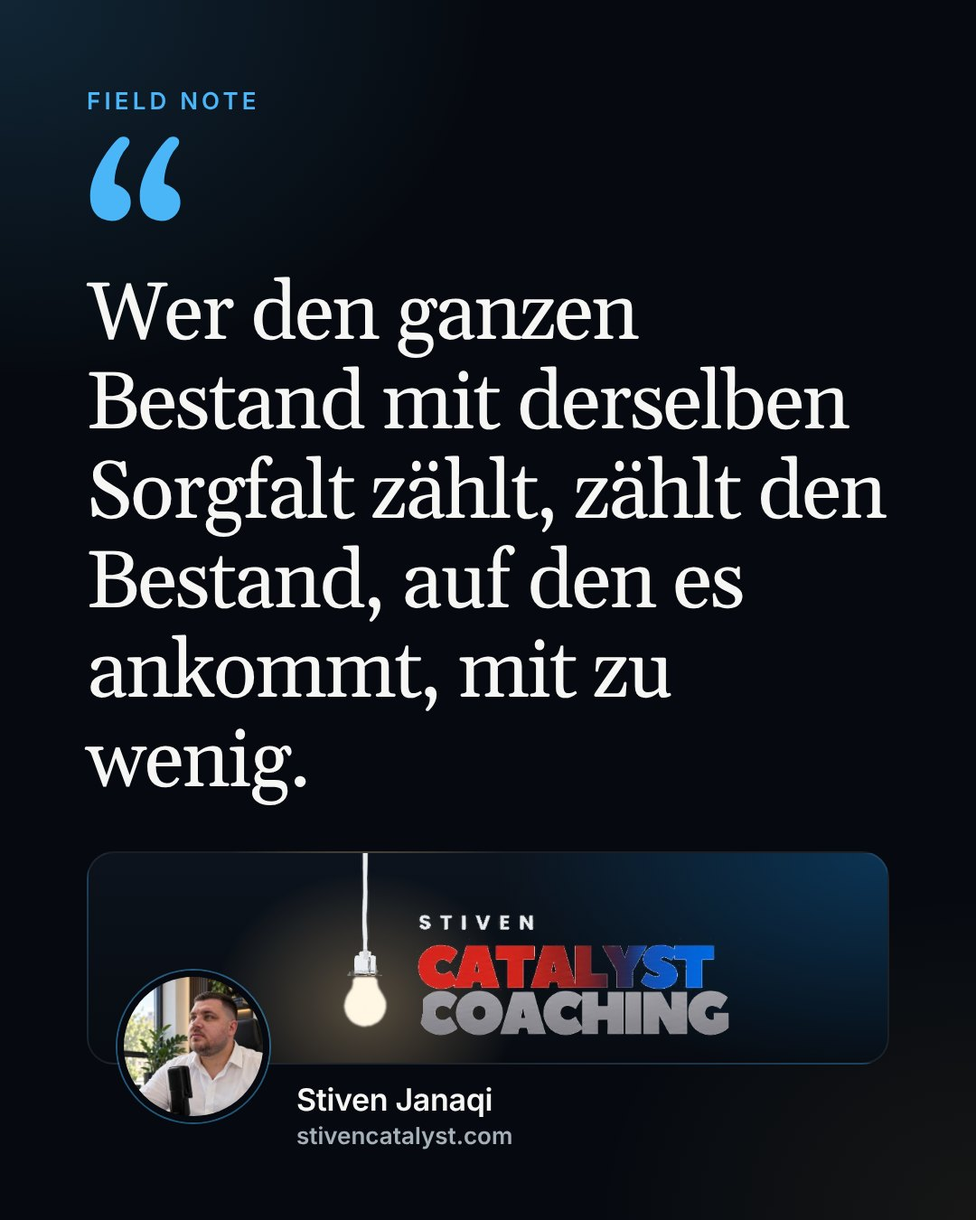
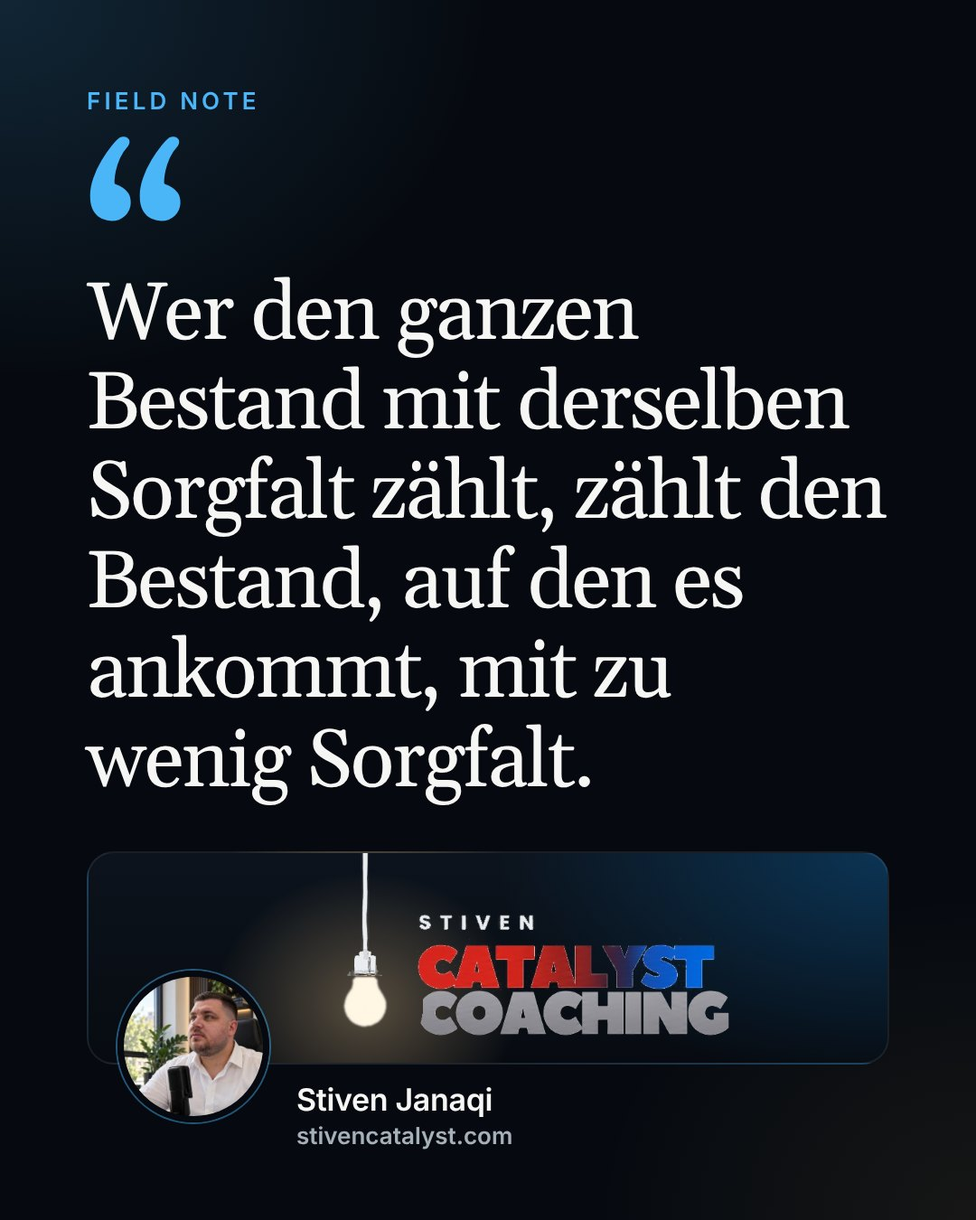
English: calques and slips in the reflection translations, typographic quotes in the reflection bodies, field note 173 restored to "to the solution" (audit P4-10, P4-11)
The card images of field notes 173 (EN) and 226 (DE) are made again with scripts/note-cards.mjs.

Claude-Session: https://claude.ai/code/session_01AtMYkgndrDbZkBjz8B5ny3

Changed region(s): [[0.3056, 0.5911, 0.6111, 0.6533]]

diff --git a/src/content/reflections/2026-10-20-five-questions.md b/src/content/reflections/2026-10-20-five-questions.md
@@ -17,41 +17,41 @@ If we had the courage to strip the false façade from these interviews and bring
 
 ## 1. The wage and the impossible arithmetic
 
-The owner tells you: "The wage is five hundred thousand old lek, but we are giving you the chance to grow together with the company."
+The owner tells you: “The wage is five hundred thousand old lek, but we are giving you the chance to grow together with the company.”
 
-The real question you should ask: "Have you ever worked out what it costs to pay for electricity, water, food and medicine in this country on five hundred thousand lek? How can I grow with the company when my mind is on how I will get to the end of the month without falling into debt?"
+The real question you should ask: “Have you ever worked out what it costs to pay for electricity, water, food and medicine in this country on five hundred thousand lek? How can I grow with the company when my mind is on how I will get to the end of the month without falling into debt?”
 
 In Albania, the figure of five hundred thousand lek has become a kind of economic fiction. It is the sum set just high enough to say you are not unemployed, but not enough to live with dignity. And when you ask for an explanation, the old words come back: that this is what the market pays, that there is no money, that the business is struggling. Meanwhile, the luxury cars at the warehouse door are changed every two years.
 
 ## 2. Six days a week
 
-The owner tells you: "We need total commitment; the hours are Monday to Saturday."
+The owner tells you: “We need total commitment; the hours are Monday to Saturday.”
 
-The real question you should ask: "Do you understand that you are not just buying my working hours, but my whole life? Where will I find time to see my family, to develop myself or simply to breathe, when my only day off is used just to wipe away the week's exhaustion?"
+The real question you should ask: “Do you understand that you are not just buying my working hours, but my whole life? Where will I find time to see my family, to develop myself or simply to breathe, when my only day off is used just to wipe away the week's exhaustion?”
 
 Working six days a week for five hundred thousand lek means giving up every right to a life outside the walls of work. It is a rhythm that breaks you physically and morally, made up only because the manager does not know how to organise the process and looks for the solution in the extra sweat of ordinary people, not in technology or efficiency.
 
 ## 3. Fourteen days of freedom
 
-The owner tells you: "You get fourteen days of leave a year, as the law says."
+The owner tells you: “You get fourteen days of leave a year, as the law says.”
 
-The real question you should ask: "Why do you apply the law only when it comes to counting my few days of freedom, while for overtime, safety at work or respect for dignity, the law is forgotten?"
+The real question you should ask: “Why do you apply the law only when it comes to counting my few days of freedom, while for overtime, safety at work or respect for dignity, the law is forgotten?”
 
 Fourteen days of leave a year are two weeks in which a person has to recover from three hundred and fifty days of stress, pressure and fatigue. And often even those fourteen days are granted on conditions, fought over, with phone calls that never stop and the guilt of leaving the work behind.
 
 ## 4. One-sided flexibility
 
-The owner tells you: "You need to be ready to stay a little longer when it gets busy."
+The owner tells you: “You need to be ready to stay a little longer when it gets busy.”
 
-The real question you should ask: "Will this 'a little longer' be paid, or is it considered part of the five hundred thousand lek with which you think you have bought all of my time?"
+The real question you should ask: “Will this ‘a little longer’ be paid, or is it considered part of the five hundred thousand lek with which you think you have bought all of my time?”
 
-In our corporate mindset, overtime has become an unwritten moral duty. When you leave on time, you are "lazy". When you ask to be paid for the hours worked after closing, you are "only in it for yourself". This is the illusion of control through guilt, in which the owner wants Western commitment on feudal working terms.
+In our corporate mindset, overtime has become an unwritten moral duty. When you leave on time, you are “lazy”. When you ask to be paid for the hours worked after closing, you are “only in it for yourself”. This is the illusion of control through guilt, in which the owner wants Western commitment on feudal working terms.
 
 ## 5. The empty future
 
-The owner tells you: "There are excellent opportunities here for those who want to work."
+The owner tells you: “There are excellent opportunities here for those who want to work.”
 
-The real question you should ask: "What exactly is the future of a person who works six days a week for this wage? Will I be able to buy a home, raise a child, or will I just be one more name on your staff turnover list?"
+The real question you should ask: “What exactly is the future of a person who works six days a week for this wage? Will I be able to buy a home, raise a child, or will I just be one more name in your staff turnover figures?”
 
 This is the question that frightens the most. Because its answer is clear to everyone. With five hundred thousand lek and a rhythm that grinds down the soul, the future does not exist. There is only survival from month to month, until the day the body gives out or you realise that life is slipping away for nothing between the shelves and desks of a place that gives you no chance.
 

diff --git a/src/content/reflections/2026-10-26-the-art-of-saying-no.md b/src/content/reflections/2026-10-26-the-art-of-saying-no.md
@@ -7,9 +7,9 @@ deck: 'Freedom is not a gift your employer grants you, nor a nicely worded artic
 description: 'A reflection on obedience as a false virtue, on every forced "yes" that takes a piece of your sovereignty and why a calm "no" changes the room.'
 ---
 
-In our everyday culture, obedience has long been raised to the rank of a supreme virtue. From childhood, at school, and later, mercilessly, in the workplace, people are fed the idea that a good employee is one who does not upset anyone, who does not start arguments, who always says "yes" and who measures the worth of his character by his ability to bear in silence every weight that is loaded onto his back.
+In our everyday culture, obedience has long been raised to the rank of a supreme virtue. From childhood, at school, and later, mercilessly, in the workplace, people are fed the idea that a good employee is one who does not upset anyone, who does not start arguments, who always says “yes” and who measures the worth of his character by his ability to bear in silence every weight that is loaded onto his back.
 
-And so, over the years, the word "no" has turned into a kind of frightening taboo. Managers experience it as an unjustifiable rebellion, while the employee experiences it as a fatal risk that could cost him his livelihood, his job or that faint appraisal he barely earned after months of sacrifice.
+And so, over the years, the word “no” has turned into a kind of frightening taboo. Managers experience it as an unjustifiable rebellion, while the employee experiences it as a fatal risk that could cost him his livelihood, his job or that faint appraisal he barely earned after months of sacrifice.
 
 But let us look at this reality with calm eyes and a cool head.
 
@@ -21,15 +21,15 @@ It always starts with small things. A phone call at ten in the evening about a t
 
 In that brief second, a fierce battle takes place inside you. Your conscience tells you that this is not right, that it violates your dignity and the truth of the work. But fear, that bad adviser of survival, whispers hastily: *Do it this time too. Don't be difficult. Say yes and be done with it.*
 
-And you say "yes". You say it under your breath, with a forced smile and a hidden feeling of bitterness in your throat.
+And you say “yes”. You say it under your breath, with a forced smile and a hidden feeling of bitterness in your throat.
 
-But every forced "yes" is not just a compromise with your hours or with the physical fatigue of that day. It is a slow retreat from your sovereignty as a human being. You give up a centimetre today, a metre tomorrow, until the day comes when you find yourself completely occupied by the demands of a system that will never be satisfied.
+But every forced “yes” is not just a compromise with your hours or with the physical fatigue of that day. It is a slow retreat from your sovereignty as a human being. You give up a centimetre today, a metre tomorrow, until the day comes when you find yourself completely occupied by the demands of a system that will never be satisfied.
 
 Because such is the nature of unchecked power: it never stops where morality asks it to; it stops only where it runs into a clear and unshakeable wall.
 
 Learning the art of saying no does not mean becoming arrogant, stubborn or undisciplined. That is the greatest misunderstanding.
 
-Saying "no" with dignity does not require you to shout in the middle of the room, to slam doors or to use the language of anger. Noise and shouting are often signs of insecurity and weakness.
+Saying “no” with dignity does not require you to shout in the middle of the room, to slam doors or to use the language of anger. Noise and shouting are often signs of insecurity and weakness.
 
 The most powerful refusal in human history and in everyday professional life is the one spoken with complete calm, with good manners and with surgical precision. It is the ability to look the other person in the eye and say: *I cannot break this process because it harms the quality of the whole team. I cannot take on these hours because my time for today is over. I cannot accept this treatment because my work is based on mutual respect.*
 

diff --git a/src/content/reflections/2026-10-26-divide-and-rule-in-the-corridors.md b/src/content/reflections/2026-10-26-divide-and-rule-in-the-corridors.md
@@ -21,7 +21,7 @@ Let me say this with all the clarity the truth deserves. **When an insecure mana
 
 Let us watch how this little civil war in the corridors is orchestrated.
 
-It always begins in the boss's closed office, in secret conversations behind half-open doors. The owner or the director calls in one of the employees, offers him a coffee, smiles at him with false confidence and whispers in a low voice: "Look, I count on you. You're the only one who really works here. Watch out for that other one, he said some unkind things about you yesterday."
+It always begins in the boss's closed office, in secret conversations behind half-open doors. The owner or the director calls in one of the employees, offers him a coffee, smiles at him with false confidence and whispers in a low voice: “Look, I count on you. You're the only one who really works here. Watch out for that other one, he said some unkind things about you yesterday.”
 
 Then, just an hour later, the same scene is repeated with the other colleague, with only the names changed.
 
@@ -31,7 +31,7 @@ First, he destroys any chance of solidarity. He knows very well that if the staf
 
 A united, clear-sighted team demands accountability, demands standards and demands dignity. And that is the worst nightmare of incompetent management.
 
-Second, through this division, the manager casts himself as indispensable. He becomes the only centre of gravity, the only channel of communication, the supreme father keeping the balance between quarrelling children. Employees no longer go to a colleague to clear up an operational problem; they go to the boss to inform on each other and to seek protection. And the boss enjoys watching grown adults lower their dignity just to win a crumb of favour in his eyes.
+Second, through this division, the manager casts himself as indispensable. He becomes the only centre of gravity, the only channel of communication, the supreme father keeping the balance between quarrelling children. Employees no longer go to a colleague to clear up an operational problem; they go to the boss to inform on each other and to seek protection. And the boss enjoys watching grown adults demean themselves just to win a crumb of favour in his eyes.
 
 The price a business pays for this sick game is enormous.
 
@@ -39,7 +39,7 @@ The energy that should go into improving customer service, eliminating mistakes 
 
 True leadership does exactly the opposite.
 
-A leader with integrity and self-confidence knows that his success is measured by the level of trust that exists between people when he is not in the room at all. He cannot stand intrigue. As soon as someone walks into his office to speak badly about a colleague, a true leader stops him at once and says: "Call him in here, sit down across from him and tell him to his face what you have to say."
+A leader with integrity and self-confidence knows that his success is measured by the level of trust that exists between people when he is not in the room at all. He cannot stand intrigue. As soon as someone walks into his office to speak badly about a colleague, a true leader stops him at once and says: “Call him in here, sit down across from him and tell him to his face what you have to say.”
 
 He sets clear procedures for communication, builds transparent handover protocols and creates an environment where each person's result depends on the success of everyone together.
 
@@ -47,4 +47,4 @@ If you are working today in a place where the air is heavy with jealousy and col
 
 Open your eyes and look at who is profiting from this senseless war. Look at who is hiding his own weakness behind the noise of your clashes.
 
-Because the truth always remains simple: small people divide so they can rule over ruins, but great leaders unite, because they know well that no real castle can stay standing if the stones of its foundation are wearing each other away.
+Because the truth always remains simple: small minds divide so they can rule over ruins, but great leaders unite, because they know well that no real castle can stay standing if the stones of its foundation are wearing each other away.

diff --git a/src/content/reflections/2026-10-26-the-blame-culture.md b/src/content/reflections/2026-10-26-the-blame-culture.md
@@ -9,13 +9,13 @@ description: 'A reflection on hunting for a culprit after every mistake, on the 
 
 When something goes wrong in an operation, when a load is late in the warehouse, when an invoice gets stuck or a piece of equipment is damaged, the first reaction reveals the true level of civilisation of that organisation.
 
-In most of our businesses, in that critical second, the essential question is never asked: "Why did the process fail?". Instead, another question is asked at once, loaded with resentment and a primitive thirst for punishment: "Who did it? Whose fault is it?".
+In most of our businesses, in that critical second, the essential question is never asked: “Why did the process fail?”. Instead, another question is asked at once, loaded with resentment and a primitive thirst for punishment: “Who did it? Whose fault is it?”.
 
 Within a few minutes the office turns into an improvised courtroom. The manager insists on a name, a concrete face on which he can unload all his anger, his irritation and his operational insecurity. A scapegoat must be found. Someone has to sit in the middle of the room, take the insults, have money docked from their pay and be declared absolutely guilty in front of everyone. And as soon as this head is found and the punishment handed down with a flourish, everyone breathes a sigh of relief, the manager goes calmly back to his chair and the matter is declared solved.
 
 Let me say this with all the clarity the truth demands. **Hunting for the culprit is not justice; it is simply a theatre of revenge that leaves the problem completely untouched. When personal punishment replaces root-cause analysis, you have fixed nothing; you have simply guaranteed that the same failure will happen again tomorrow.**
 
-Look at how the industries work that carry human lives on their shoulders and where mistakes are not forgiven.
+Look at the industries that carry human lives on their shoulders, where mistakes are not forgiven, and see how they work.
 
 In modern aviation or in surgery, when an incident happens, no one wastes precious seconds insulting or humiliating the technician. The first question the investigating board asks is a completely different one: What in the design of the instruments led the person into confusion? Why did the checklist fail to catch the defect before departure? How can we change the standard operating procedure so that no other professional falls into the same trap?
 
@@ -25,7 +25,7 @@ But what happens in an Albanian company that feeds on the fear of personal punis
 
 There, the operational truth is destroyed completely. Employees are not naive. The second they understand that admitting a small mistake will cost them their livelihood or their dignity in front of their colleagues, they give up on transparency and learn the dark art of survival: hiding.
 
-The mistake is not corrected; it is pushed deep under the carpet. The flaw is masked with quick patches, the figures in the system are quietly altered and the defect is left like a time bomb, with everyone praying it goes off on someone else's shift. And so the company begins to rot from within without anyone noticing, because the culture of terror has killed the one tool that saves a business: the courage to say "we have a problem here".
+The mistake is not corrected; it is pushed deep under the carpet. The flaw is masked with quick patches, the figures in the system are quietly altered and the defect is left like a time bomb, with everyone praying it goes off on someone else's shift. And so the company begins to rot from within without anyone noticing, because the culture of terror has killed the one tool that saves a business: the courage to say “we have a problem here”.
 
 True leadership draws a sharp line between two worlds. It knows how to separate, cleanly, a process error from a deliberate breach of ethics.
 

diff --git a/src/content/reflections/2026-10-26-the-theatre-of-haste.md b/src/content/reflections/2026-10-26-the-theatre-of-haste.md
@@ -9,7 +9,7 @@ description: 'A reflection on the culture where everything is urgent, on calm th
 
 There is a common and very costly illusion in today's world of work, where the value of a day is no longer measured by what is actually built, but by the amount of noise created around the process.
 
-Watch closely how this theatre works in many of our offices, warehouses and operational settings. Doors fly open, people walk with quickened steps as if putting out an imaginary fire, phones shake without pause on the desks, and in every corner the same word is heard, repeated like a prayer: "urgent". Everything is declared urgent. Every request should have been closed yesterday. Every message arrives with red alarm signs and every conversation begins out of breath, as if the company were on the edge of the abyss every second.
+Watch closely how this theatre works in many of our offices, warehouses and operational settings. Doors fly open, people walk with quickened steps as if putting out an imaginary fire, phones shake without pause on the desks, and in every corner the same word is heard, repeated like a prayer: “urgent”. Everything is declared urgent. Every request should have been closed yesterday. Every message arrives with red alarm signs and every conversation begins out of breath, as if the company were on the edge of the abyss every second.
 
 At first sight, to a superficial observer, this looks like a business with a high tempo, full of committed people giving everything they have.
 
@@ -27,7 +27,7 @@ And here the greatest injustice of this culture shows itself: the way it treats 
 
 Picture a manager or an employee who believes in order. He starts the shift calmly, opens his notes, works out the priorities and refuses to take part in the general hysteria. He knows that before you start running, you need to know which way you are running.
 
-In the eyes of a shallow manager, this person is at once viewed with suspicion. "Why is he so calm? Why isn't he worried like the others? His mind isn't on the job."
+In the eyes of a shallow manager, this person is at once viewed with suspicion. “Why is he so calm? Why isn't he worried like the others? His mind isn't on the job.”
 
 In the mindset of those who mistake noise for results, calm is felt as an insult, because it exposes the futility of their panic. They do not understand that a professional's calm does not come from indifference, but from the strength of preparation.
 
@@ -35,7 +35,7 @@ A skilled surgeon does not walk into the operating theatre shouting nervously; h
 
 The culture of blind hurry is not only ridiculous; it is deeply destructive to the health of people and of the organisation.
 
-It produces dangerous shortcuts. To close the next "urgency", people skip the quality check, break the safety rules and leave essential details half done. And the result is well known: today's shortcut becomes tomorrow's big crisis. People burn out from chronic stress, mistakes multiply and the company enters a vicious circle in which hurry itself produces the need for more hurry.
+It produces dangerous shortcuts. To close the next “urgency”, people skip the quality check, break the safety rules and leave essential details half done. And the result is well known: today's shortcut becomes tomorrow's big crisis. People burn out from chronic stress, mistakes multiply and the company enters a vicious circle in which hurry itself produces the need for more hurry.
 
 True leadership stands out precisely by its ability to break this illusion.
 

diff --git a/src/content/reflections/2026-10-22-the-tyranny-of-the-wall-clock.md b/src/content/reflections/2026-10-22-the-tyranny-of-the-wall-clock.md
@@ -9,7 +9,7 @@ description: 'A reflection on the culture of empty presence, overtime as a loyal
 
 The clock shows exactly the last minute of the shift. You close the computer, tidy the desk, take your coat and get your keys ready to leave. In any society that understands the value of system and organisation, this is simply a day fulfilled: the work is done, the hours are over, a person goes back to their life.
 
-But in many Albanian offices, shops and warehouses, an unbearable piece of theatre happens precisely in that second. It is enough to get up from your chair on time for cold looks to cross over you. The manager raises their head in surprise, as if witnessing a serious breach of the criminal code. Colleagues used to submission lower their eyes to the keyboard with a kind of silent guilt. And there is almost always the half-ironic remark, tossed into the air like a poisoned dart: "Taking half the day off today?" or "Leaving already, didn't you finish the work?"
+But in many Albanian offices, shops and warehouses, an unbearable piece of theatre happens precisely in that second. It is enough to get up from your chair on time for cold looks to cross over you. The manager raises their head in surprise, as if witnessing a serious breach of the criminal code. Colleagues used to submission lower their eyes to the keyboard with a kind of silent guilt. And there is almost always the half-ironic remark, tossed into the air like a poisoned dart: “Taking half the day off today?” or “Leaving already, didn't you finish the work?”
 
 On the other hand, when you stay two hours longer, when you burn your energy fixing chaos created by others, no one says thank you. No one asks how you will get home. In that case the office's silence treats your staying as something to be taken for granted, a sacred duty you owe the company.
 
@@ -23,7 +23,7 @@ But instead of sitting down in front of the data and asking where the time is le
 
 They turn closing time into a loyalty test. They make you feel guilty for having a family waiting at home, children to pick up from school, friends to meet, or simply for wanting to read a book without the voice of work over your head. In their sick logic, you should stay in the office even when there is no emergency, just to keep their insecurity company, just so they can enjoy having people under their command.
 
-This is the culture of "empty presence". It is a culture that values the person who sits around in the office until nine in the evening browsing the internet more than the one who organises the day with surgical precision and hands in the work without a single mistake at exactly closing time.
+This is the culture of “empty presence”. It is a culture that values the person who sits around in the office until nine in the evening browsing the internet more than the one who organises the day with surgical precision and hands in the work without a single mistake at exactly closing time.
 
 This mindset is the greatest killer of efficiency. When a team gets used to the idea that the end of the day is negotiable, no one has any reason left to work fast and with focus. Why should I hurry to finish a task by two o'clock when I know the boss won't let me leave before seven? In this way the whole team falls into a lethargic rhythm, where the hours drag on for nothing and the day becomes a prison without bars.
 

diff --git a/src/content/reflections/2026-10-25-the-perfect-alibi.md b/src/content/reflections/2026-10-25-the-perfect-alibi.md
@@ -7,7 +7,7 @@ deck: 'In the mindset of a caste of entrepreneurs who never admit a mistake, it 
 description: 'A reflection on the myth of the lazy Albanian, on workers who excel abroad, and why the problems of an organisation always flow from the top down.'
 ---
 
-There is an old refrain, repeated so often in offices, business cafés and television studios that for many managers it has become a kind of sacred dogma: "It's not the firm's fault. It's the worker's fault, he doesn't want to work."
+There is an old refrain, repeated so often in offices, business cafés and television studios that for many managers it has become a kind of sacred dogma: “It's not the firm's fault. It's the worker's fault, he doesn't want to work.”
 
 It is the most comfortable sentence Albanian management has ever invented.
 
@@ -19,7 +19,7 @@ Let us set this myth against one simple fact that no one can deny.
 
 Look at what happens the second these young men and women cross the border. In Germany, in Italy, in England and everywhere around the world, they take on long shifts in logistics, on building sites, in hotels and in hospitals. They wake before dawn, work with iron discipline, carry loads, keep to the hours and earn the respect of foreign employers as some of the most hard-working people there are.
 
-How is it possible that the same person who in Durrës or Tirana is declared "a lazy one who doesn't want to work" becomes a model employee the moment he walks into a warehouse in Munich or London?
+How is it possible that the same person who in Durrës or Tirana is declared “a lazy one who doesn't want to work” becomes a model employee the moment he walks into a warehouse in Munich or London?
 
 Does his blood change on the way? Does his DNA change at the airport?
 
@@ -29,7 +29,7 @@ Abroad, that person faces a contract that is respected, a clear operating proces
 
 When one employee leaves your company, it may be an isolated case. But when dozens of people leave your company every year, when the recruitment doors stay open without end and no one turns their head to come, this is not a crisis in the morals of the young. **It is an open indictment of the way you lead.**
 
-To say that "people don't want to work" when you offer survival conditions is like throwing seed on dry rock and then cursing nature because nothing grows. Work is not born of pressure, nor of complaints on television screens. Committed work is born when you create an environment where a person sees that their effort has meaning and an honest reward.
+To say that “people don't want to work” when you offer survival conditions is like throwing seed on dry rock and then cursing nature because nothing grows. Work is not born of pressure, nor of complaints on television screens. Committed work is born when you create an environment where a person sees that their effort has meaning and an honest reward.
 
 True leadership is measured by the courage to take responsibility. It is very easy to sit in the big chair and take the credit for every success while billing every failure to those at the base. But the history of management teaches us one unshakeable rule: the problems of an organisation always flow from the top down, not from the bottom up.
 

diff --git a/src/content/reflections/2026-10-20-the-keeper-of-the-stamp.md b/src/content/reflections/2026-10-20-the-keeper-of-the-stamp.md
@@ -17,7 +17,7 @@ In a healthy organisation, this department is the conscience of the company. It 
 
 Look at how this mechanism works every day. When an employee has a concern, when the system crushes them, when their overtime is not paid or their manager behaves with arrogance, they know very well that the Human Resources door is the last place to knock. Because in that office there is no confidentiality, there is reporting. There is no solution, there is a warning. Every word said in there risks becoming a note in their personal file.
 
-And what happens on the surface meanwhile? On the surface the corporate comedy is played. Photos with forced smiles are posted on social media, people talk about "the big company family", year-end parties are organised and certificates of appreciation are handed out that are not worth the paper they are printed on. It is a nicely painted façade, while behind it employees are treated as replaceable numbers in an Excel sheet.
+And what happens on the surface meanwhile? On the surface the corporate comedy is played. Photos with forced smiles are posted on social media, people talk about “the big company family”, year-end parties are organised and certificates of appreciation are handed out that are not worth the paper they are printed on. It is a nicely painted façade, while behind it employees are treated as replaceable numbers in an Excel sheet.
 
 I have seen excellent professionals who gave years of their lives to a company and were in the end sent off with a cold piece of paper, without a single question about why they were leaving. In Albania there are no exit interviews, because to ask why a capable person is leaving, you need the courage to hear the truth. And the truth is that people do not leave hard work. **People leave places where they feel invisible, unprotected and deceived.**
 
@@ -25,6 +25,6 @@ When Human Resources are reduced to the role of a gendarme who checks the clock-
 
 This is not how the future is built. This is the model of the old workshop, dressed up in English terms.
 
-Real change in our businesses will begin the day those who sit in that office understand that loyalty to the owner is not shown by saying "yes" to every injustice. The greatest loyalty to a business is to tell the manager the truth when they are wrong, to protect talent from mediocrity and to build a system where the rule applies equally to everyone, from the guard at the door to the director on the top floor.
+Real change in our businesses will begin the day those who sit in that office understand that loyalty to the owner is not shown by saying “yes” to every injustice. The greatest loyalty to a business is to tell the manager the truth when they are wrong, to protect talent from mediocrity and to build a system where the rule applies equally to everyone, from the guard at the door to the director on the top floor.
 
 Until that day comes, do not be surprised that the doors of your companies stand open for recruitment and no one knocks any more. Because **a stamp on paper can close a file, but it can never hold on by force to people who have understood their own worth.**

diff --git a/src/content/reflections/2026-10-26-the-poison-paradox.md b/src/content/reflections/2026-10-26-the-poison-paradox.md
@@ -7,7 +7,7 @@ deck: 'The idea that a society can live alongside corruption and at the same tim
 description: 'A reflection on normalised corruption, on the myth of "the thief who gets things done", and why development and theft can never share the same room.'
 ---
 
-In the cafés of Tirana, at afternoon meetings in Durrës, around family tables and in the everyday conversations of ordinary people, one sentence is heard all the time. It is said with a kind of feigned maturity, in the tone of someone who claims to know the world to the bone: "Look, corruption I understand. Everyone steals everywhere. But I don't understand why this country doesn't develop, why we never get a proper state."
+In the cafés of Tirana, at afternoon meetings in Durrës, around family tables and in the everyday conversations of ordinary people, one sentence is heard all the time. It is said with a kind of feigned maturity, in the tone of someone who claims to know the world to the bone: “Look, corruption I understand. Everyone steals everywhere. But I don't understand why this country doesn't develop, why we never get a proper state.”
 
 This is, without any doubt, one of the most self-destructive and deeply contradictory phrases our collective mindset has ever produced.
 
@@ -25,11 +25,11 @@ How can you expect development from an organism in which every cell feeds on inj
 
 A nation's development is not a magic miracle that falls from the sky. It does not come from luck, nor from good weather. Development is the inevitable result of three fundamental elements: clear rules of the game, free competition on merit, and the belief that the law protects everyone's effort.
 
-The second you say "corruption I understand", you have agreed to destroy all three of these foundations.
+The second you say “corruption I understand”, you have agreed to destroy all three of these foundations.
 
 You have agreed that the rules be made of plasticine for the strong and of iron for the weak. You have agreed that talent be defeated by servility. You have agreed that the sweat of your brow be worth nothing against the power of the envelope. And having accepted all this with a shrug of the shoulders, you turn to the screen and ask out loud: *Why can't we become like Germany? Why can't we have a state?*
 
-This contradiction also feeds another dangerous myth: the hope in "the thief who gets things done".
+This contradiction also feeds another dangerous myth: the hope in “the thief who gets things done”.
 
 For years, Albanian citizens have been sold the idea that it does not matter if a leader steals, as long as he leaves behind a few kilometres of poor-quality asphalt or a few façades painted in shiny colours. But world history knows not a single case of a country that reached lasting prosperity through enlightened thievery. Asphalt laid without standards on foundations of corruption breaks up in the first rain. A hospital built with theft becomes a cold building short of bandages and syringes. And the painted façade soon fades, leaving the real misery behind.
 

diff --git a/src/content/reflections/2026-10-26-the-truth-that-does-not-climb-to-the-top-floor.md b/src/content/reflections/2026-10-26-the-truth-that-does-not-climb-to-the-top-floor.md
@@ -13,19 +13,19 @@ The night shift had spent hours correcting mistakes that should never have happe
 
 The first report said:
 
-"Repeated problems in the process. Intervention needed."
+“Repeated problems in the process. Intervention needed.”
 
 The head of department read it. The problem was real, but he did not want the report to give the impression that the situation had gone out of control. He changed the wording:
 
-"Operational difficulties identified and managed."
+“Operational difficulties identified and managed.”
 
 The manager at the next level shortened it even more. After all, the work had been completed and the customers had gone.
 
-"Operational challenges were handled successfully."
+“Operational challenges were handled successfully.”
 
 By the time the report reached the executive floor, the sentence had taken its final form:
 
-"Operations completed normally."
+“Operations completed normally.”
 
 None of the people who had touched the document considered himself a liar.
 
@@ -69,7 +69,7 @@ It is enough for people to understand what happens to the one who brings it.
 
 Then self-censorship begins.
 
-First a detail judged too negative is dropped. Later a direct word is replaced with a more diplomatic phrase. A repeated mistake becomes "a situation being monitored". A serious staff shortage is described as "resource optimisation". A process that survives only thanks to the extraordinary efforts of its employees is presented as proof of the efficiency of the structure.
+First a detail judged too negative is dropped. Later a direct word is replaced with a more diplomatic phrase. A repeated mistake becomes “a situation being monitored”. A serious staff shortage is described as “resource optimisation”. A process that survives only thanks to the extraordinary efforts of its employees is presented as proof of the efficiency of the structure.
 
 The information keeps circulating.
 
@@ -91,7 +91,7 @@ Often it begins in the office where the information is meant to arrive.
 
 There are leaders who declare constantly that they want transparency.
 
-"I want to know everything. Don't hide any problem from me."
+“I want to know everything. Don't hide any problem from me.”
 
 Admirable words.
 
@@ -209,7 +209,7 @@ When was the last time someone told me something I did not want to hear?
 
 Not trivial criticism, not an ordinary complaint, but a truth that called into question a decision of mine, a belief of mine or the way I had understood the situation.
 
-If the answer is "I don't remember", that is not necessarily proof that everything is going well.
+If the answer is “I don't remember”, that is not necessarily proof that everything is going well.
 
 It may be a sign that people have stopped trying.
 
@@ -243,7 +243,7 @@ Then an important customer leaves. A mistake becomes public. A good professional
 
 The board asks:
 
-"How is it possible that nobody informed us?"
+“How is it possible that nobody informed us?”
 
 Sometimes the answer is that somebody had.
 

diff --git a/src/content/reflections/2026-10-20-the-false-alms.md b/src/content/reflections/2026-10-20-the-false-alms.md
@@ -7,7 +7,7 @@ deck: 'In our labour market there is one sentence that sums up the whole crisis 
 description: 'A reflection on the sentence "I am keeping you in bread", on wages as a right and not as alms, and why Albanians do not flee hard work but humiliation.'
 ---
 
-There is a sentence every worker in Albania has heard at least once, said out loud in the middle of the office or whispered as a threat along the corridors: "I am keeping you in bread."
+There is a sentence every worker in Albania has heard at least once, said out loud in the middle of the office or whispered as a threat along the corridors: “I am keeping you in bread.”
 
 They are a few simple words, but inside them hides the whole twisted philosophy of our belated capitalism. It is the sentence where the contract dies, where the law disappears and where the relationship between two free people turns into a relationship between a master and a servant. When an Albanian owner says they are keeping you in bread, they are not talking about economics. They are demanding submission.
 
@@ -19,7 +19,7 @@ But why does this myth keep living in Albania?
 
 It lives because for thirty years we have built a culture in which success in business has often come not from vision or innovation, but from the exploitation of cheap labour. Many of those who today are called entrepreneurs have not built systems; they have built feudal estates. They see the company as an extension of their own backyard, and they experience the wage they pay at the end of the month as a pain in the pocket, as money taken from them personally to be gifted to someone else.
 
-This mindset produces a toxic workplace, where every legal right turns into a plea. Annual leave is treated as a gift. A day of sick leave is seen as betrayal. Overtime is called a moral duty. And when you dare to ask for what is yours, you face the astonished look of someone who thinks you are ungrateful for the "bread" they have given you.
+This mindset produces a toxic workplace, where every legal right turns into a plea. Annual leave is treated as a gift. A day of sick leave is seen as betrayal. Overtime is called a moral duty. And when you dare to ask for what is yours, you face the astonished look of someone who thinks you are ungrateful for the “bread” they have given you.
 
 I know what happens in a professional's heart when they hear that sentence. Something breaks inside. In that moment they understand that there is no future in that place, however high the title on their business card. Because you cannot build a career where you are expected to bow your head every time you receive the wage of your own sweat.
 

diff --git a/src/content/reflections/2026-10-26-the-complicity-of-the-honest.md b/src/content/reflections/2026-10-26-the-complicity-of-the-honest.md
@@ -7,7 +7,7 @@ deck: 'In a distorted system, evil does not flourish only through those who brea
 description: 'A reflection on silence in meetings, on good people who "mind their own business" and why courage begins with a word spoken calmly.'
 ---
 
-There is a very comfortable shelter where good people go to hide whenever they face a difficult moral decision. It is a shelter built from seemingly harmless excuses, from words that sound like folk wisdom: "I mind my own business", "It's none of my concern", "Why should I be the hero who fixes the world".
+There is a very comfortable shelter where good people go to hide whenever they face a difficult moral decision. It is a shelter built from seemingly harmless excuses, from words that sound like folk wisdom: “I mind my own business”, “It's none of my concern”, “Why should I be the hero who fixes the world”.
 
 These sentences are repeated every day in offices, in warehouses, in the corridors of institutions and in public life. They serve as a kind of sedative for the conscience. A person tells himself that it is enough not to steal yourself, enough not to insult anyone with your own mouth and to keep to your working hours, to be called a person of integrity. He believes that between the executioner and the victim there is a neutral zone, a no man's land where you can stand aside, stay out of it and keep your hands clean.
 
@@ -35,7 +35,7 @@ Because every time you swallow a truth to preserve the comfort of the moment, so
 
 Civic and professional courage does not necessarily require you to march into the square with a flag or to sacrifice everything in a blind confrontation.
 
-Courage begins with much simpler, but essential, decisions. It begins with a word spoken in a calm and firm voice in a meeting: "That is not correct." It begins with refusing to laugh at the boss's humiliating joke. It begins with a hand placed on the shoulder of a colleague who is being unfairly attacked, saying openly in front of everyone: "You are not alone, the truth is different."
+Courage begins with much simpler, but essential, decisions. It begins with a word spoken in a calm and firm voice in a meeting: “That is not correct.” It begins with refusing to laugh at the boss's humiliating joke. It begins with a hand placed on the shoulder of a colleague who is being unfairly attacked, saying openly in front of everyone: “You are not alone, the truth is different.”
 
 A just system is not built only with laws well written on paper. It is built with the daily refusal of ordinary people to become spectators of shame.
 
